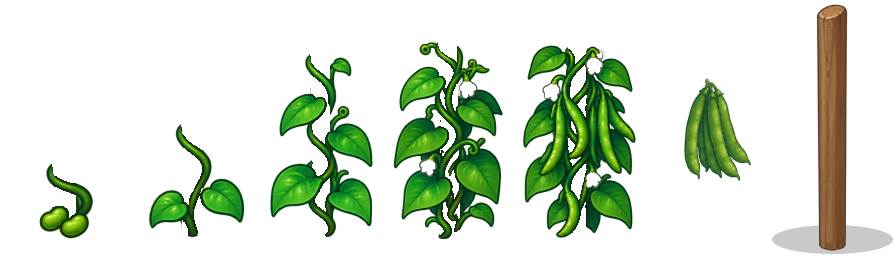
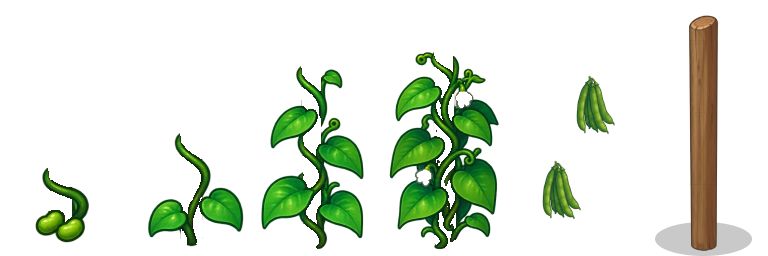
jaya

diff --git a/game.js b/game.js
@@ -1586,19 +1586,37 @@ console.log(
     // hands it over. A patch that has turned never turns back, so it leaves the
     // pending list: the per-frame scan shrinks to the still-dry frontier instead
     // of re-testing the whole field.
-    _updateWetGround() {
+    _updateWetGround(dtMs) {
         const TM = CONFIG.ROAD.TILEMAP, W = TM.GROUND_WET || {};
         if (W.ENABLED === false || TM.TERRAIN_GROUND_WET === undefined) return;
-        const at = W.AT !== undefined ? W.AT : 0.15;
+        const at  = W.AT !== undefined ? W.AT : 0.15;
+        const stg = W.STAGGER_MS || [0, 0];
+        const dt  = Math.min(dtMs || 16, 100);
         for (const seg of this.segments) {
             const list = seg.wetGround;
             if (!list || !list.length) continue;
             // Backwards, so the swap-remove below can't skip an entry.
             for (let i = list.length - 1; i >= 0; i--) {
                 const e = list[i];
+                // Already waiting its turn: the canal reached it, and now it is
+                // counting down its own offset so the row does not water as one.
+                if (e.due !== undefined) {
+                    e.due -= dt;
+                    if (e.due > 0) continue;
+                    list[i] = list[list.length - 1]; list.pop();
+                    if (!this._playPlantWater(seg, e)) this._dampenTile(seg, e);
+                    continue;
+                }
                 let on = false;
                 for (const cc of e.watch) if (cc.progress > at) { on = true; break; }
                 if (!on) continue;
+                // Take its turn from the cell's own hash — same plant, same
+                // moment, every rebuild.
+                const span = (stg[1] || 0) - (stg[0] || 0);
+                if (span > 0 || stg[0]) {
+                    e.due = (stg[0] || 0) + span * this._cellHash(e.cr.col, e.cr.row, 9);
+                    if (e.due > 0) continue;
+                }
                 list[i] = list[list.length - 1]; list.pop();
                 // The splash owns the changeover from here: it turns the soil
                 // partway through itself. With no splash art the patch darkens
@@ -2506,6 +2524,9 @@ console.log(
                     list.splice(i, 1);
                 }
                 cr.sprite.setAngle(cr.baseAngle + cr.sway);
+                // The fruit hangs on the plant, so it leans with it. The support
+                // does not — it is a stake in the ground, not part of the plant.
+                if (cr.fruit) cr.fruit.setAngle(cr.baseAngle + cr.sway);
             }
         }
     }
@@ -2901,9 +2922,13 @@ console.log(
         const key    = `${crop}_stages`;
         if (!this.textures.exists(key)) {
             const img = this.textures.get(`${crop}_src`).getSourceImage();
+            // Sliced at a FIXED frame width, not width/stages: sheets no longer
+            // all hold the same number of frames, so the count is read off the
+            // image instead of assumed.
             this.textures.addSpriteSheet(key, img,
-                { frameWidth: img.width / stages, frameHeight: img.height });
+                { frameWidth: TM.CROP_FRAME_W || 128, frameHeight: img.height });
         }
+        const lay = this._cropLayout(crop, key);
         const sc    = g.tile / this.textures.getFrame(key, 0).width;   // 128 → one cell
         // Origin is the stem base, not the frame bottom — the art hangs a
         // shadow ellipse below the stem, and it is the stem that must land on
@@ -2973,6 +2998,20 @@ console.log(
                 const h3    = this._cellHash(c, r, 3);
                 const jit   = 1 + (h1 - 0.5) * 2 * (V.SCALE_VAR || 0);
                 const psc   = sc * jit;               // this plant's own base size
+                const cy    = gTop + (r + 0.5) * g.tile;
+                // THE SUPPORT GOES IN FIRST and is then left alone — no stage
+                // frame, no growth spring, no sway. It is a fixed structure the
+                // plant climbs, and the whole reason it was pulled out of the
+                // stage art is that baking it in made the stakes stretch and
+                // spring every time the plant grew.
+                let support = null;
+                if (lay.support !== null) {
+                    support = this._addB(this.add.image(
+                            g.left + (c + 0.5) * g.tile, cy, key, lay.support)
+                        .setOrigin(0.5, stemY).setScale(psc)
+                        .setDepth(this._yDepth(cy, TM.CROP_SUPPORT_BIAS !== undefined
+                                                 ? TM.CROP_SUPPORT_BIAS : -0.0003)), seg);
+                }
                 const spr = this._addB(this.add.image(
                         g.left + (c + 0.5) * g.tile, gTop + (r + 0.5) * g.tile, key, 0)
                     .setOrigin(0.5, stemY).setScale(psc)
@@ -2996,6 +3035,7 @@ console.log(
                 const rec = { watch: best, stage: 1, timer: 0, sprite: spr, sc: psc, crop, edge,
                              col: c, row: r,
                              baseAngle, sway: 0, swayV: 0,
+                             lay, support, fruit: null, twF: null,
                              tilled, tilledOff: ev.off, tilledAngle: ev.angle,
                              growMul: 1 + (this._cellHash(c, r, 4) - 0.5) * 2 * (V.GROW_VAR || 0),
                              ground: (seg.groundSprites || [])[r * g.cols + c] || null,
@@ -3004,6 +3044,36 @@ console.log(
                 cropAt.set(c + ',' + r, rec);
             }
         }
+    }
+
+    // What each frame of a crop sheet is for.
+    //
+    // Read from the frame COUNT plus the crop's class, so no per-crop table has
+    // to be kept in step with the art. The class's extra frames come off the end
+    // — support for a trellis, the pulled vegetable for a root — and whatever is
+    // left is the growth run, with the fruit as its last frame unless the crop is
+    // a root (a buried vegetable has no fruit to hang on the plant).
+    //
+    // The growth run may be shorter than CROP_STAGES. That is the point of the
+    // split: a tomato has four bodies and a fruit, so its last stage is the
+    // fourth body WITH the fruit laid over it, while green-beans has five bodies
+    // and a fruit. Both are described by the same two numbers.
+    _cropLayout(crop, key) {
+        const TM = CONFIG.ROAD.TILEMAP;
+        const cls = (TM.CROP_CLASS || {})[crop] || 'normal';
+        const n   = this.textures.get(key).frameTotal - 1;   // __BASE is not a frame
+        let support = null, harvest = null, fruit = null, growth = n;
+        if (cls === 'trellis') { support = --growth; }
+        if (cls === 'root')    { harvest = --growth; }
+        else                   { fruit   = --growth; }       // roots have none
+        return { cls, growth: Math.max(1, growth), fruit, support, harvest };
+    }
+
+    // Which body frame a stage draws. The last stage reuses the last body when a
+    // sheet has fewer bodies than stages — for those crops the change at the top
+    // end is the fruit arriving, not a new plant.
+    _cropFrame(lay, stage) {
+        return Math.max(0, Math.min(stage - 1, lay.growth - 1));
     }
 
     // Every exposed-side combination (0-15) → which of the six drawn edge
@@ -3108,7 +3178,28 @@ console.log(
                 if (st !== cr.stage) {
                     const from = cr.stage;
                     cr.stage = st;
-                    cr.sprite.setFrame(st - 1);         // frame 0 = stage 1
+                    // The body frame may NOT change at the last stage: a crop
+                    // with four bodies and a separate fruit holds its stage-4
+                    // plant and gains the fruit on top. Tracked, because the
+                    // growth spring should fire for a new body and not for a
+                    // body that stayed put.
+                    const bodyF  = this._cropFrame(cr.lay, st);
+                    const newBody = bodyF !== this._cropFrame(cr.lay, from);
+                    cr.sprite.setFrame(bodyF);
+                    // THE FRUIT ARRIVES AT THE LAST STAGE, over the plant rather
+                    // than replacing it — which is the point of splitting it out:
+                    // a harvest can take the fruit away later and leave the plant
+                    // standing. Roots have none; theirs is underground.
+                    if (st >= stages && cr.lay.fruit !== null && !cr.fruit) {
+                        cr.fruit = this._addB(this.add.image(cr.sprite.x, cr.sprite.y,
+                                cr.sprite.texture.key, cr.lay.fruit)
+                            .setOrigin(0.5, cr.sprite.originY)
+                            .setFlipX(cr.sprite.flipX)
+                            .setAngle(cr.sprite.angle)
+                            .setDepth(this._yDepth(cr.sprite.y,
+                                TM.CROP_FRUIT_BIAS !== undefined ? TM.CROP_FRUIT_BIAS : 0.0003)),
+                            seg);
+                    }
                     // Overlays fade in ACROSS a stage, not on arrival: entering a
                     // stage starts the one due at the next. Every crossed stage is
                     // scanned, so a skipped stage (a long frame, or the level
@@ -3127,7 +3218,22 @@ console.log(
                     // so the growth still pops.
                     const target = this._cropScale(cr, st);
                     cr.sprite.scaleX = target;
-                    if (popFr < 1 && popMs > 0) {
+                    // The fruit rides the plant's scale exactly, so the stage
+                    // spread applies to both and they never drift apart.
+                    if (cr.fruit) cr.fruit.scaleX = target;
+                    if (cr.fruit) {
+                        // It springs in on its own whether or not the body moved:
+                        // for most crops the body is unchanged at this stage and
+                        // the fruit appearing IS the growth.
+                        if (cr.twF) cr.twF.stop();
+                        cr.fruit.scaleY = target * popFr;
+                        cr.twF = this.tweens.add({
+                            targets: cr.fruit, scaleY: target,
+                            duration: popMs, ease: 'Back.easeOut',
+                            onComplete: () => { cr.twF = null; },
+                        });
+                    }
+                    if (newBody && popFr < 1 && popMs > 0) {
                         if (cr.tw) cr.tw.stop();        // stage skipped mid-spring
                         cr.sprite.scaleY = target * popFr;
                         cr.tw = this.tweens.add({
@@ -6780,7 +6886,7 @@ console.log(
         this._updateFlood(time);
         // Grow crops as the water reaches them.
         this._updateCrops(time);
-        this._updateWetGround();
+        this._updateWetGround(delta || 16);
         this._updateFarmers(delta || 16);
         this._updateProps(delta || 16);
         this._updateSway(delta || 16);

diff --git a/config.js b/config.js
@@ -1034,6 +1034,17 @@ var CONFIG = {
                 FADE_MS: 450,       // cross-fade into the wet tile. 0 = a hard
                                     // swap, which pops: a whole neighbourhood of
                                     // tiles can cross AT on the same frame
+                // A whole row of plants shares one canal cell, so without this
+                // they all take their splash on the SAME FRAME — a rank of
+                // identical animations in lockstep, which reads as a mechanism
+                // rather than as water spreading through soil. Each plant waits
+                // its own moment inside this window first.
+                //
+                // The wait comes from the CELL'S HASH, not Math.random(): the
+                // scene is rebuilt on every resize, and a true random would deal
+                // the field a different order each time. This way a plant always
+                // takes its turn at the same point.
+                STAGGER_MS: [0, 700],
             },
 
             // ── Crops ───────────────────────────────────────────────────────
@@ -1059,25 +1070,63 @@ var CONFIG = {
             // Every sheet is one row of CROP_STAGES frames of equal width
             // (640x256 = five 128x256 stages, as they all are today).
             CROP_CYCLE: [
-                'grass',
                 'tomato',
-                'grass',
+                'carrot',
                 'mango',
-                
-                'green_bean',
+                'green-beans',
+                'corn',
                 'hops',
-                'grape_vine',
-                'grass2',
-                
-                
-                
+                'egg-plant',
+                'melon',
                 'grape',
-                
             ],
-            CROP_DIR: 'graphics/crops/',
-            CROP_EXT: '.webp',   // every crop sheet is a webp, so the list above
-                                 // is plain NAMES. An entry may still spell out
-                                 // its own extension if one ever differs.
+            CROP_DIR: 'graphics/crops1/',
+            CROP_EXT: '.png',    // sheets are PNG until the art is settled; the
+                                 // list above is plain NAMES. An entry may still
+                                 // spell out its own extension if one differs.
+
+            // ── How a sheet is read ─────────────────────────────────────────
+            // Every frame is CROP_FRAME_W wide by the sheet's full height, so the
+            // NUMBER of frames varies per crop and is counted from the image
+            // rather than assumed. What those frames mean depends on the crop's
+            // class:
+            //
+            //   normal   [growth x4][fruit]
+            //            The fruit is its OWN frame now, not baked into a copy of
+            //            stage 4. At the last stage it is drawn OVER the stage-4
+            //            body instead of replacing it — which is what makes a
+            //            harvest possible later: the fruit can be taken away and
+            //            leave the plant standing.
+            //
+            //   trellis  [growth][fruit][support]      hops, green-beans
+            //            The support is the LAST frame and is drawn BEHIND the
+            //            plant, once, and never touched again. It used to be
+            //            baked into every stage, so the stakes sprang and
+            //            stretched along with the plant at each stage change —
+            //            a fixed structure has no business doing that.
+            //
+            //   root     [growth x5][harvest]          carrot
+            //            Only the leaves show while it grows; the root is buried.
+            //            The extra frame is the vegetable ALONE, for showing what
+            //            was pulled up. It is never drawn during growth.
+            //
+            // Growth frames are whatever is left after the class's extra frames
+            // are taken off the end, so a crop with five distinct bodies and one
+            // with four both work: the last stage simply reuses the last body it
+            // has. Adding a beetroot means dropping in a sheet and tagging it
+            // 'root' — no code, and no per-crop frame table.
+            CROP_FRAME_W: 128,
+            CROP_CLASS: {
+                'hops':        'trellis',
+                'green-beans': 'trellis',
+                'carrot':      'root',
+                // anything unlisted is 'normal'
+            },
+            // Where the extra pieces sit against the plant's own depth. The
+            // support must be behind it and the fruit in front, and both are
+            // hairline offsets so nothing else in the depth band is disturbed.
+            CROP_SUPPORT_BIAS: -0.0003,
+            CROP_FRUIT_BIAS:    0.0003,
             CROP:         'tomato.png',  // fallback when CROP_CYCLE is empty
             // How big each stage stands, as a multiple of one tile. A mature
             // plant confined to its own cell — leaves stopping dead on the tile
